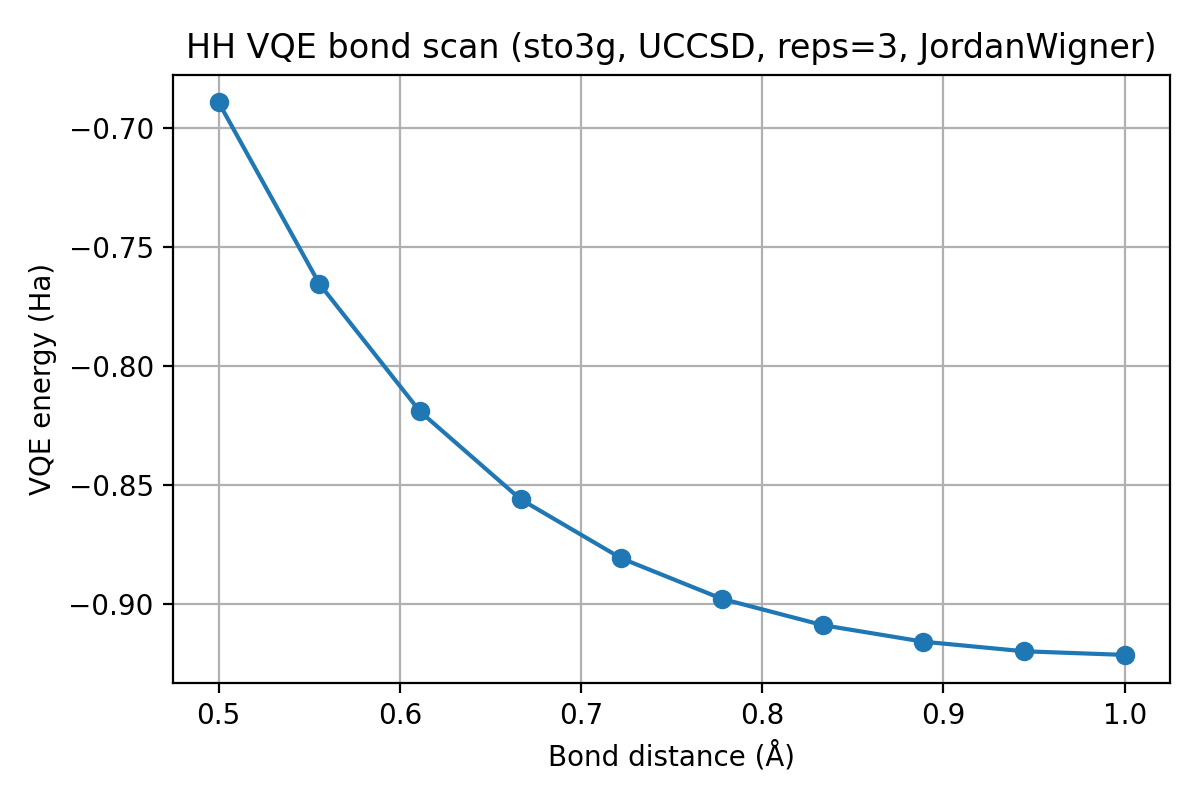
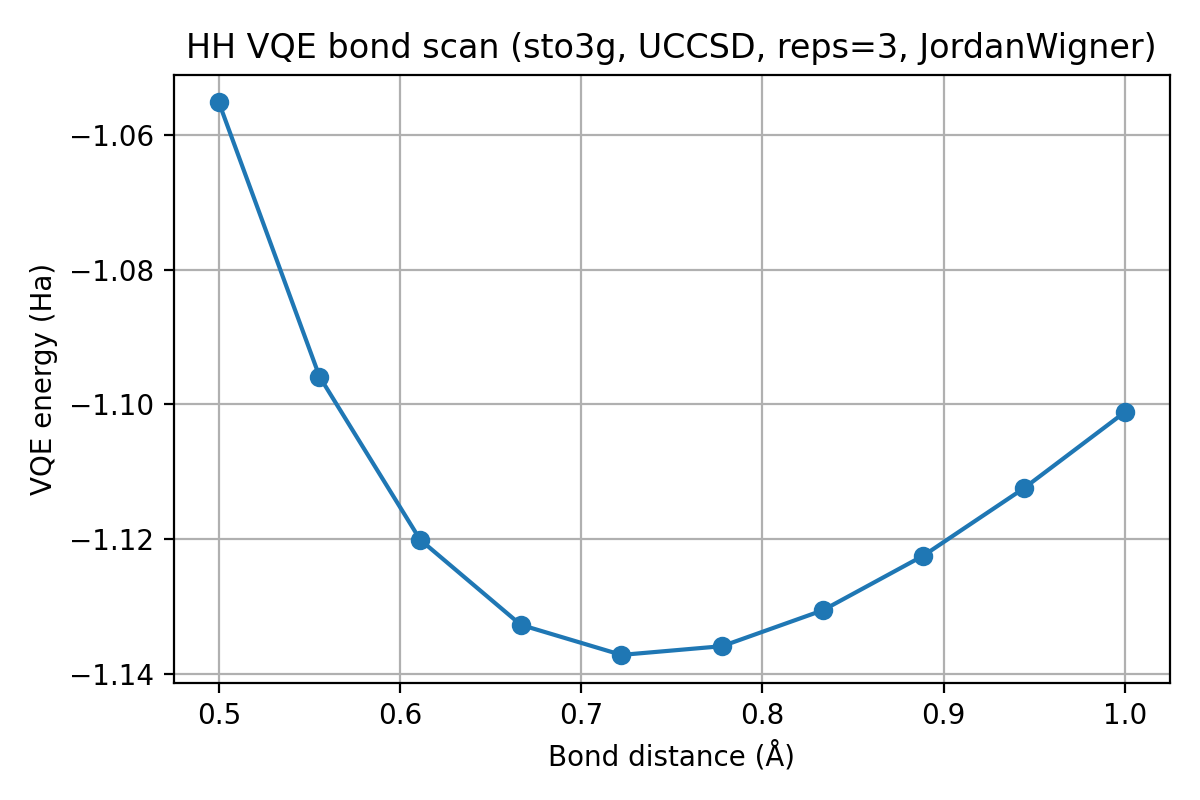
add comparison for different repetitions for bond scan

diff --git a/main.py b/main.py
@@ -19,10 +19,10 @@ if __name__ == "__main__":
     # Comparisons
     # run_h2_noise_benchmark()
     # run_h2_joint_comparison()
-    run_convergence_benchmark()
+    # run_convergence_benchmark()
     
     # Bond scans
-    # run_h2_bond_scan()
+    run_h2_bond_scan()
     # run_lih_bond_scan()
     # run_hf_bond_scan()
     

diff --git a/modules/jobs.py b/modules/jobs.py
@@ -827,7 +827,7 @@ def run_h2_bond_scan() -> dict[str, Any]:
         "freeze_core": False,
         "active_space": (2, 2),
         "mapper": "JordanWigner",
-        "ansatz_method": "EfficientSU2",
+        "ansatz_method": "UCCSD",
         "entanglement": "linear",
         "reps": 5,
         "optimizer_maxiter": 150,
